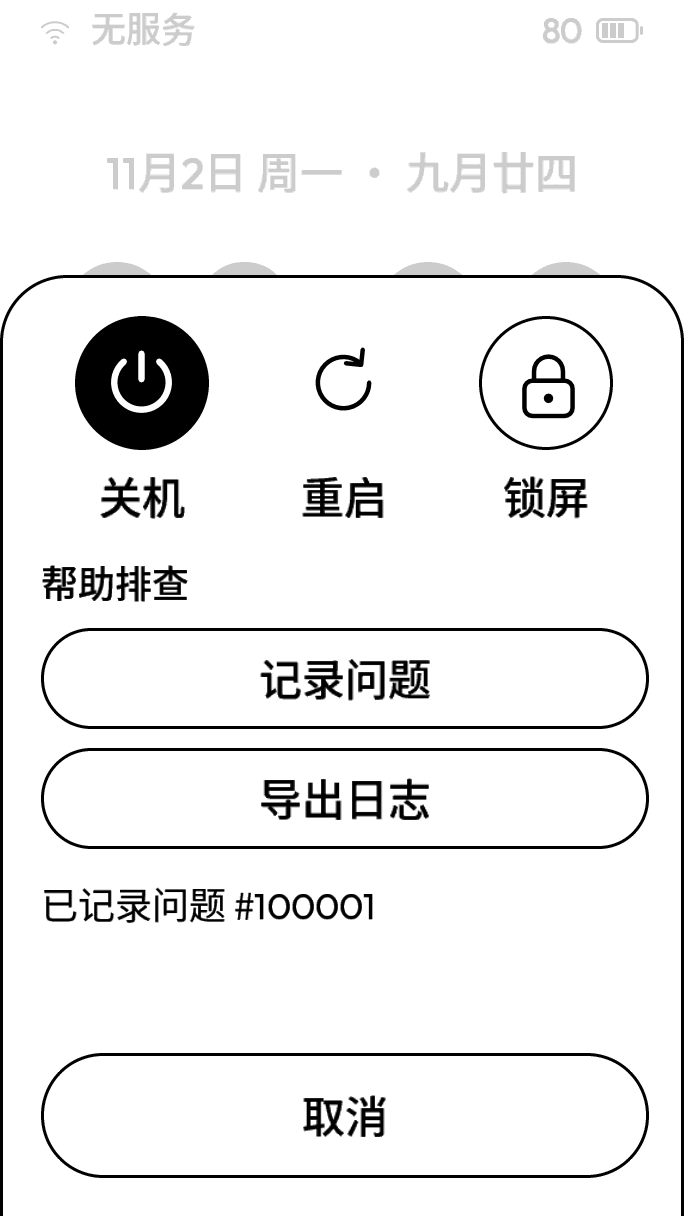
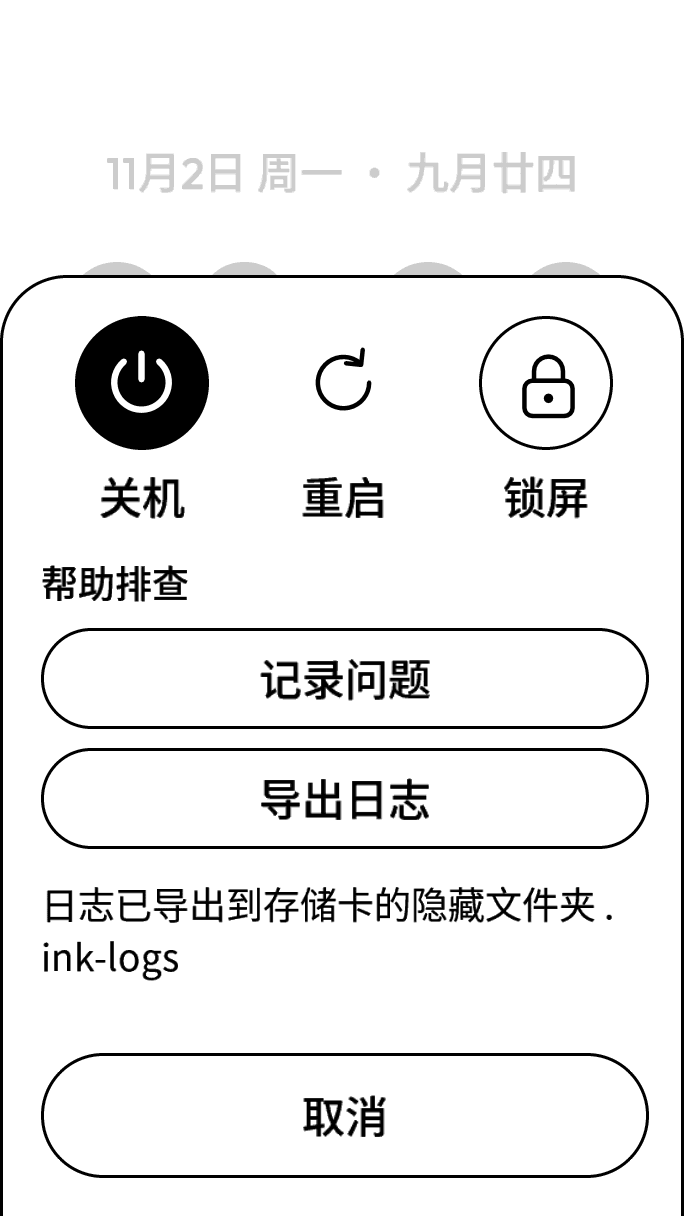
Record final UI validation and complete screenshot evidence

diff --git a/tests/ui_fix_g/menu.c b/tests/ui_fix_g/menu.c
@@ -4,6 +4,9 @@
 #include UI_FIX_PRODUCT
 #include "common.h"
 static void open_fixture(void) { open_job(NULL); }
+static bool export_ready;
+static void read_export(void) { export_ready = strstr(M.say, ".ink-logs") != NULL; }
+static bool exported(void) { on_ui(read_export); return export_ready; }
 static void inspect_menu(void) {
     lv_obj_t *report = fx_label(M.card.panel, "记录问题"), *export = fx_label(M.card.panel, "导出日志");
     CHECK(report && export, "S27 diagnostics remain available");
@@ -29,7 +32,7 @@ static void run(void *ctx) {
     if (!fx_before) on_ui(inspect_menu);
     fx_press("记录问题"); CHECK(WAIT_FOR(M.say[0], 5000), "problem recording reply arrives"); fx_capture("power-recorded");
     if (!fx_before) on_ui(inspect_result);
-    fx_press("导出日志"); fx_quiet(); fx_capture("power-exported");
+    fx_press("导出日志"); CHECK(WAIT_FOR(exported(), 10000), "S27 export reports its actual storage-card destination"); fx_capture("power-exported");
     if (!fx_before) on_ui(inspect_result);
     fx_press("取消"); CHECK(!M.card.root, "S27 cancel returns to original page");
     ink_probe_count("test.finished");

diff --git a/tests/ui_fix_g/battery.c b/tests/ui_fix_g/battery.c
@@ -19,10 +19,15 @@ static void inspect_static(lv_obj_t *obj) {
 static void inspect_page(void) {
     for (uint32_t i = 0; i < lv_obj_get_child_count(B.card.panel); i++) inspect_static(lv_obj_get_child(B.card.panel, (int32_t)i));
 }
+static void inspect_low_icon(void) {
+    lv_obj_t *icon = lv_obj_get_child(B.card.panel, 1);
+    CHECK(ink_ui_surface_kind(icon) == INK_SURFACE_WHITE && !lv_obj_get_style_border_width(icon, 0), "S30 static battery icon has no button circle");
+}
 static void run(void *ctx) {
     (void)ctx; fx_start();
     if (!strcmp(fx_variant, "low")) {
         mode = 1; on_ui(render_fixture); fx_capture("battery-low");
+        if (!fx_before) on_ui(inspect_low_icon);
         CHECK(strstr(fx_snapshot, "5%") && strstr(fx_snapshot, "interrupt.ack"), "S30 percentage and continue action remain");
     } else if (!strcmp(fx_variant, "saving")) {
         mode = 2; on_ui(render_fixture); fx_capture("battery-saving"); on_ui(inspect_page);

diff --git a/tests/ui_fix_g/interrupt.c b/tests/ui_fix_g/interrupt.c
@@ -10,7 +10,8 @@ static void inspect_context(void) {
     lv_obj_t *label = fx_label(C.card.panel, "结束后回到刚才的页面");
     CHECK(label, "Z07 interrupt states the return destination");
     if (label) fx_fits(label, C.card.panel);
-    CHECK(!lv_obj_has_flag(C.icon, LV_OBJ_FLAG_CLICKABLE) && !lv_obj_get_style_border_width(C.icon, 0), "Z07 static interrupt icon has no button outline or action");
+    CHECK(!lv_obj_has_flag(C.icon, LV_OBJ_FLAG_CLICKABLE) && !lv_obj_get_style_border_width(C.icon, 0) &&
+          ink_ui_surface_kind(C.icon) == INK_SURFACE_WHITE, "Z07 static interrupt icon has no button circle or action");
 }
 static void run(void *ctx) {
     (void)ctx; fx_start(); char original[64]; snprintf(original, sizeof original, "%s", ink_ui_page_name());

diff --git a/docs/tasks/ui-fix-g/REPORT.md b/docs/tasks/ui-fix-g/REPORT.md
@@ -1,6 +1,6 @@
 # ui-fix-g 执行报告
 
-基线：`943e8d9f44a3ecfb6cbafa6778388c6ef92920bf`。状态：页面修复、基线对照和普通全量收尾完成，ASan/UBSan检查进行中。以下 `PY="$INK_DEPS/build-deps/pyenv/bin/python"`。
+基线：`943e8d9f44a3ecfb6cbafa6778388c6ef92920bf`。状态：本地交付完成；全量仍有两项共享登记门禁未过，需主会话统一处理。以下 `PY="$INK_DEPS/build-deps/pyenv/bin/python"`。
 
 ## 验收表
 
@@ -17,20 +17,29 @@
 | S32 | 【实测】保留静态电量、充电和按键唤醒说明 | `after-charging-{100,120}.png`；未改刷新周期 | 同上；`battery-charging` |
 | Z06 | 【实测】孩子卡同时显示受影响动作和请家长处理，仍无关飞行权限 | `after-airplane-adult/child-{100,120}.png` | 同上；`airplane-100/120` |
 | Z07 | 【实测】去掉静态头像/闹钟按钮式圆底，补返回原页提示；未具体命名暂停任务 | `after-interrupt-call/alarm-{100,120}.png`；打断关闭后原活动不变 | 同上；`interrupt-100/120` |
-| 常规与120%前后截图 | 【实测】完成 | [截图索引](SCREENSHOTS.md)：21种状态、84张图，最大24086字节，共1412858字节 | `run.py --before 943e8d9f44a3ecfb6cbafa6778388c6ef92920bf --screens`；正向同上 |
-| 针对性测试及反向对照 | 【实测】正向20组586条断言；基线20组完整结束、35条预期失败 | [结果摘要](page-test-results.json)；每个被改产品文件至少一档反向失败 | `run.py --reverse 943e8d9f44a3ecfb6cbafa6778388c6ef92920bf` |
-| 普通全量 ctest（含 ui-scale） | 【实测】未全绿；首轮5失败，3项复验已过，剩2项登记门禁 | 原话：`99% tests passed, 5 tests failed out of 413`；`ui-scale`通过；复验原话：`100% tests passed out of 3` | `taskpolicy -c utility "$INK_DEPS/build-deps/pyenv/bin/ctest" --test-dir build --output-on-failure -j2`；复验加 `-R '^(i18n-services\|integration-power-menu\|unit-s31-uhci-negative)$'` |
-| 内存检查、S31、gcccheck | 待核查 | 运行范围和结果待补 | 待记录 |
+| 常规与120%前后截图 | 【实测】完成 | [截图索引](SCREENSHOTS.md)：21种状态、84张图，最大26159字节，共1423159字节；导出图等待实际目的地回执 | `run.py --before 943e8d9f44a3ecfb6cbafa6778388c6ef92920bf --screens`；正向同上 |
+| 针对性测试及反向对照 | 【实测】普通及内存版各20组588条断言；基线20组完整结束、40条预期失败 | [页面结果](page-test-results.json)；每个被改产品文件至少一档反向失败，含静态图标与真实导出回执布局 | `run.py --reverse 943e8d9f44a3ecfb6cbafa6778388c6ef92920bf`；内存版用 `--build build-asan` |
+| 普通全量 ctest（含 ui-scale） | 【实测】未全绿；首轮5失败，3项复验已过，剩2项登记门禁 | 原话：`99% tests passed, 5 tests failed out of 413`；`ui-scale`通过；复验原话：`100% tests passed out of 3` | 全量及复验命令见表后 |
+| ASan/UBSan | 【实测】构建成功；413项全量仅2项登记失败，专用20组全部通过，未见未预期sanitizer错误 | 原话：`99% tests passed, 2 tests failed out of 413`；[整轮结果](suite-test-results.json) | 配置加 `-DINK_SANITIZE=ON`，构建 `-j2`；`UBSAN_OPTIONS=halt_on_error=1 taskpolicy -c utility "$INK_DEPS/build-deps/pyenv/bin/ctest" --test-dir build-asan --output-on-failure -j2` |
+| 中枢补测 | 【实测】两构建中被跳过的三项均补跑通过；契约测试各157项通过 | 使用只读现有锁定环境；依赖版本匹配，源码确认来自本工作区；只有本机回环服务和假模型 | [补测命令](../../../tests/ui_fix_g/README.md)；[整轮结果](suite-test-results.json)中6项exit均为0 |
 | GCC检查 | 【实测】12个文件无发现 | 产品6个、专用C测试6个，各为 `gcccheck: 6 compiled, 0 with findings` | `taskpolicy -c utility "$PY" "$INK_DEPS/../ink-codex/tools/gcccheck.py" build <6个产品C文件>`；测试用对应编译参数 |
-| S31 | 未编固件；【实测】已跑主工程S31宿主测试 | 首轮UHCI归还缓冲断言失败，单独复跑通过，未改该目标；没有设备验证 | 上述全量及复验命令 |
-| 范围、行数和隐私检查 | 范围已核对；隐私待最终提交检查 | C文件新增98行、删除26行，共124行；英文表另增7行；合计131≤250行 | `git diff --numstat` |
+| S31 | 未编固件；【实测】主工程S31宿主测试已执行，ASan整轮通过 | 首轮UHCI归还缓冲断言失败，单独复跑及ASan整轮均通过，未改该目标；没有设备验证 | 上述全量及复验命令 |
+| 范围、行数和隐私检查 | 【实测】范围、差异、文件及链接检查通过；隐私表达式无匹配 | C文件新增98行、删除26行，共124行；英文表另增7行；合计131≤250行；隐私grep退出1、无输出 | `git diff --stat`、`git diff --check`；`git diff <基线>..HEAD` 接任务书隐私表达式检查 |
+
+普通全量及三项复验的实际命令：
+
+```sh
+taskpolicy -c utility "$INK_DEPS/build-deps/pyenv/bin/ctest" --test-dir build --output-on-failure -j2
+taskpolicy -c utility "$INK_DEPS/build-deps/pyenv/bin/ctest" --test-dir build --output-on-failure -j2 -R '^(i18n-services|integration-power-menu|unit-s31-uhci-negative)$'
+```
 
 ## 没做到的
 
-- 普通全量仍有能力生成目录、公共AI清单两项门禁未通过，见“要改的文档”。3项中枢测试由现有环境条件跳过：`hub-contract`、`hub-json-crosscheck`、`hub-simulator-e2e`，本任务未加跳过逻辑。
+- 普通及内存全量仍有能力生成目录、公共AI清单两项门禁未通过，见“要改的文档”；没有跳过、放宽或改写这两项检查。
 - V06未在失败结果页新增取景框或持续识别；已按任务书保留重扫路径并沿用相机会话。Z07未显示被暂停活动的具体名字，未新增恢复队列。
+- V08仅调整对象与动作的呈现，未调整扫码操作既有确认策略，包括D-105按来源收口。
 - S11、S12、S13、S16由 `lock-faces-1` 处理，本次未碰 `lock_mark.c`；S14、S15、S17、S18涉及活动卡、控制中心和任务列表，超出本次文件范围，未改。S30继续按钮保留原“知道了”文案。
-- 未编S31固件、未进行真机显示/唤醒验证。
+- 未编S31固件、未进行真机显示/唤醒验证；未运行Linux CI，GCC编译检查不等于Linux运行证据。
 
 ## 和设计不一致的
 
@@ -38,7 +47,7 @@
 
 ## 改过的已有测试
 
-- 暂无。
+- 没有改已有测试、预算或断言；只新增 `tests/ui_fix_g/` 的专用验证。
 
 ## 要用户定的
 
@@ -47,12 +56,13 @@
 ## 顺手发现
 
 - 【实现】翻译表在CMake配置时复制到构建目录，改译文后需重新配置。本任务未改构建机制。
+- 【实测】默认Python缺少4项中枢依赖，原有跳过逻辑使 `hub-contract`、`hub-json-crosscheck`、`hub-simulator-e2e` 返回77；后来用现有锁定环境在普通/内存构建各补跑三项，全部通过，未安装或升级依赖。
 - 【实测】新增英文提示的换行重叠、统一锁屏控件引起的旧触摸回归已修正，既有 `i18n-services`、`integration-power-menu` 复验均通过，没有改其断言。
-- 【实测】未改的S31 UHCI负向测试首轮报 `StartReceive` 的 `!counts[N_HELD]` 断言，单独复跑通过；原因未查清，不能据一次复跑宣布消除。相关驱动和宿主测试均无本任务差异。
+- 【实测】未改的S31 UHCI负向测试首轮报 `StartReceive` 的 `!counts[N_HELD]` 断言，单独复跑及ASan整轮通过；原因未查清，不宣布已消除。相关驱动和宿主测试均无本任务差异。
 
 ## 新增的机制
 
-- 无；本任务不新增线程、状态机、文件格式或配置项。
+- 产品中无新增常驻任务/线程、状态机、文件格式或配置项；测试驱动沿用既有测试任务模式。
 - 分页沿用现有 UI 执行器和能力分派；新增 `camera.scan_next`、`camera.scan_prev` 两个页面原子动作，是任务明确要求的静态分页。按钮、实体键和AI走同一能力。
 
 ## 为什么不能更小

diff --git a/tests/ui_fix_g/README.md b/tests/ui_fix_g/README.md
@@ -5,10 +5,10 @@
 ```sh
 PY="$INK_DEPS/build-deps/pyenv/bin/python"
 BASE=943e8d9f44a3ecfb6cbafa6778388c6ef92920bf
-taskpolicy -c utility "$PY" -B tests/ui_fix_g/run.py --build build --screens
-taskpolicy -c utility "$PY" -B tests/ui_fix_g/run.py --build build --before "$BASE" --screens
-taskpolicy -c utility "$PY" -B tests/ui_fix_g/run.py --build build --reverse "$BASE"
-taskpolicy -c utility "$PY" -B tests/ui_fix_g/run.py --build build-asan
+INK_KEEP_EVIDENCE=1 taskpolicy -c utility "$PY" -B tests/ui_fix_g/run.py --build build --screens
+INK_KEEP_EVIDENCE=1 taskpolicy -c utility "$PY" -B tests/ui_fix_g/run.py --build build --before "$BASE" --screens
+INK_KEEP_EVIDENCE=1 taskpolicy -c utility "$PY" -B tests/ui_fix_g/run.py --build build --reverse "$BASE"
+INK_KEEP_EVIDENCE=1 taskpolicy -c utility "$PY" -B tests/ui_fix_g/run.py --build build-asan
 ```
 
 可用 `--case scan|menu|battery|off|interrupt|airplane` 单独运行。常规和120%各跑一次；孩子沿用系统固定110%的规则。电池五种状态各用独立模拟器，避免构造不真实的关机后再次显示充电页。使用既有 `tests/ui_scene.budget.json`，不放宽预算。
@@ -20,3 +20,15 @@ taskpolicy -c utility "$PY" -B tests/ui_fix_g/run.py --build build-asan
 `--before` 仅跳过新增整改断言，保留原路径与截图；`--reverse` 对基线文件运行整改断言，每个文件至少一档必须失败并完整结束。历史模式只供手动对照，不注册进 ctest，不要求 CI 检出历史。
 
 证据在 `build/ui-fix-g/{after,before,reverse}/`，包括摘要、日志、快照与图片。提交的 `clean-*` 灰阶 PNG 是同一模拟帧的干净布局；包含残影模型的 `snap-*` 原图保留在构建目录。未启动窗口模拟器，不代表真机显示或触摸验收。
+
+全量中枢测试若因默认Python缺依赖返回77，可以用现有的只读锁定环境补跑。`PYTHONPATH`指定本工作区源码；不安装依赖，服务只绑定本机回环，使用假模型。本次普通和内存构建的三项均通过。
+
+```sh
+HUB_TEST_PY="$INK_DEPS/hub/.venv/bin/python"
+export PYTHONPATH="$PWD/hub" PYTHONDONTWRITEBYTECODE=1 UBSAN_OPTIONS=halt_on_error=1
+for task_build in build build-asan; do
+  taskpolicy -c utility "$HUB_TEST_PY" tests/hub/run_contract.py --caps "$task_build/test-out/hub/caps.json" --samples "$task_build/test-out/hub/messages.jsonl"
+  taskpolicy -c utility "$PY" tests/hub/check_samples.py "$task_build/hub-json-check" "$task_build/test-out/hub/messages.jsonl"
+  taskpolicy -c utility "$HUB_TEST_PY" tests/hub/e2e.py --sim "$PWD/$task_build/sim-hub-e2e" --parser "$PWD/$task_build/hub-json-check" --assets "$PWD/$task_build/assets" --content "$PWD/$task_build/test-content" --out "$PWD/$task_build/test-out/hub-e2e"
+done
+```
